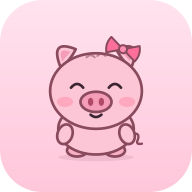
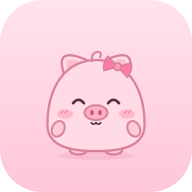
Redesign mascot as a soft rice-dumpling pig
- New original round body, lighter pink palette and pink outline
- All moods, 6 expressions and 8 accessories redrawn; app icons regenerated

Claude-Session: https://claude.ai/code/session_017u5cF35bcKVS5euekZndY5

Changed region(s): [[0.2188, 0.1875, 0.7812, 0.8438]]

diff --git a/www/js/pig.js b/www/js/pig.js
@@ -1,8 +1,10 @@
-// Original pink-pig mascot "Mochi" drawn as SVG: expressions, moods, accessories.
-const OUT = '#8A4A5E';
-const SKIN = '#FCC6D6';
-const SKIN2 = '#F7AFC4';
-const SNOUT = '#F59DB8';
+// Original mascot "Mochi" – a round rice-dumpling (糯米团子) pig drawn as SVG.
+// Expressions, moods and accessories; API: pigSVG({ mood, expr, acc, size, cls }).
+const OUT = '#D9829C';
+const FILL = '#FFDCE5';
+const FILL2 = '#FFC9D7';
+const SNOUT = '#FFB0C4';
+const EYE = '#5A3140';
 
 // Accessories & expressions unlock by total focus minutes
 export const ACCESSORIES = [
@@ -15,52 +17,52 @@ export const EXPRESSIONS = [
   { id: 'love', min: 180 }, { id: 'star', min: 360 }, { id: 'cool', min: 800 },
 ];
 
+const L = 74, R = 126, Y = 112;
+const line = (d, w = 4) => `<path d="${d}" fill="none" stroke="${EYE}" stroke-width="${w}" stroke-linecap="round"/>`;
+const roundEye = (x) => `<ellipse cx="${x}" cy="${Y}" rx="7" ry="8.5" fill="${EYE}"/><circle cx="${x + 2.5}" cy="${Y - 3.5}" r="2.8" fill="#fff"/><circle cx="${x - 2.5}" cy="${Y + 3}" r="1.3" fill="#fff"/>`;
+
 function eyes(expr) {
-  const L = 72, R = 128, Y = 88;
   switch (expr) {
-    case 'happy':
-      return `<path d="M${L - 9} ${Y + 3} Q${L} ${Y - 8} ${L + 9} ${Y + 3}" class="pig-line"/><path d="M${R - 9} ${Y + 3} Q${R} ${Y - 8} ${R + 9} ${Y + 3}" class="pig-line"/>`;
-    case 'sleep':
-      return `<path d="M${L - 9} ${Y} Q${L} ${Y + 7} ${L + 9} ${Y}" class="pig-line"/><path d="M${R - 9} ${Y} Q${R} ${Y + 7} ${R + 9} ${Y}" class="pig-line"/>`;
-    case 'wink':
-      return `<g class="pig-eye"><ellipse cx="${L}" cy="${Y}" rx="6.5" ry="8" fill="#3B2530"/><circle cx="${L + 2}" cy="${Y - 3}" r="2.4" fill="#fff"/></g><path d="M${R - 9} ${Y + 2} Q${R} ${Y - 7} ${R + 9} ${Y + 2}" class="pig-line"/>`;
+    case 'happy': return [L, R].map((x) => line(`M${x - 8} ${Y + 2} Q${x} ${Y - 8} ${x + 8} ${Y + 2}`)).join('');
+    case 'sleep': return [L, R].map((x) => line(`M${x - 8} ${Y} Q${x} ${Y + 6} ${x + 8} ${Y}`)).join('');
+    case 'wink': return `<g class="pig-eye">${roundEye(L)}</g>${line(`M${R - 8} ${Y + 2} Q${R} ${Y - 7} ${R + 8} ${Y + 2}`)}`;
     case 'love':
-      return [L, R].map((x) => `<path d="M${x} ${Y + 8} C${x - 14} ${Y - 2} ${x - 7} ${Y - 12} ${x} ${Y - 4} C${x + 7} ${Y - 12} ${x + 14} ${Y - 2} ${x} ${Y + 8}Z" fill="#FF5C8A" stroke="${OUT}" stroke-width="2"/>`).join('');
+      return [L, R].map((x) => `<path d="M${x} ${Y + 8} C${x - 13} ${Y - 1} ${x - 7} ${Y - 11} ${x} ${Y - 4} C${x + 7} ${Y - 11} ${x + 13} ${Y - 1} ${x} ${Y + 8}Z" fill="#FF6F98" stroke="${OUT}" stroke-width="1.8"/>`).join('');
     case 'star':
-      return [L, R].map((x) => `<path d="M${x} ${Y - 10} L${x + 3} ${Y - 3} L${x + 10} ${Y - 2} L${x + 5} ${Y + 3} L${x + 6} ${Y + 10} L${x} ${Y + 6} L${x - 6} ${Y + 10} L${x - 5} ${Y + 3} L${x - 10} ${Y - 2} L${x - 3} ${Y - 3}Z" fill="#FFD54F" stroke="${OUT}" stroke-width="2"/>`).join('');
+      return [L, R].map((x) => `<path d="M${x} ${Y - 10} L${x + 3} ${Y - 3} L${x + 10} ${Y - 2} L${x + 5} ${Y + 3} L${x + 6} ${Y + 10} L${x} ${Y + 6} L${x - 6} ${Y + 10} L${x - 5} ${Y + 3} L${x - 10} ${Y - 2} L${x - 3} ${Y - 3}Z" fill="#FFD54F" stroke="${OUT}" stroke-width="1.8"/>`).join('');
     case 'cool':
-      return `<path d="M52 80 H148 L144 86 Q140 102 122 100 Q108 98 104 86 H96 Q92 98 78 100 Q60 102 56 86Z" fill="#2B2B3A" stroke="${OUT}" stroke-width="2.5"/><path d="M64 84 L72 84" stroke="#fff" stroke-width="3" stroke-linecap="round" opacity=".7"/>`;
+      return `<path d="M54 104 H146 L142 110 Q138 124 122 122 Q109 120 105 110 H95 Q91 120 78 122 Q62 124 58 110Z" fill="#3A2E3A" stroke="${OUT}" stroke-width="2.5"/><path d="M64 108 L72 108" stroke="#fff" stroke-width="3" stroke-linecap="round" opacity=".7"/>`;
     case 'worried':
-      return `<g class="pig-eye"><ellipse cx="${L}" cy="${Y + 2}" rx="6" ry="7" fill="#3B2530"/><circle cx="${L + 2}" cy="${Y - 1}" r="2" fill="#fff"/><ellipse cx="${R}" cy="${Y + 2}" rx="6" ry="7" fill="#3B2530"/><circle cx="${R + 2}" cy="${Y - 1}" r="2" fill="#fff"/></g><path d="M${L - 10} ${Y - 10} L${L + 6} ${Y - 16}" class="pig-line"/><path d="M${R + 10} ${Y - 10} L${R - 6} ${Y - 16}" class="pig-line"/>`;
-    default: // smile – open round eyes
-      return `<g class="pig-eye"><ellipse cx="${L}" cy="${Y}" rx="6.5" ry="8" fill="#3B2530"/><circle cx="${L + 2}" cy="${Y - 3}" r="2.4" fill="#fff"/><ellipse cx="${R}" cy="${Y}" rx="6.5" ry="8" fill="#3B2530"/><circle cx="${R + 2}" cy="${Y - 3}" r="2.4" fill="#fff"/></g>`;
+      return `<g class="pig-eye">${roundEye(L)}${roundEye(R)}</g>${line(`M${L - 10} ${Y - 12} L${L + 6} ${Y - 17}`, 3)}${line(`M${R + 10} ${Y - 12} L${R - 6} ${Y - 17}`, 3)}`;
+    default: return `<g class="pig-eye">${roundEye(L)}${roundEye(R)}</g>`;
   }
 }
 
 function accessory(id) {
+  const s = `stroke="${OUT}" stroke-width="2.5" stroke-linejoin="round"`;
   switch (id) {
     case 'bow':
-      return `<g transform="translate(140 34) rotate(18)"><path d="M0 0 L-22 -12 Q-28 0 -22 12Z" fill="#FF6F9C" stroke="${OUT}" stroke-width="3" stroke-linejoin="round"/><path d="M0 0 L22 -12 Q28 0 22 12Z" fill="#FF6F9C" stroke="${OUT}" stroke-width="3" stroke-linejoin="round"/><circle r="6" fill="#FF8FB1" stroke="${OUT}" stroke-width="3"/></g>`;
+      return `<g transform="translate(132 60) rotate(16)"><path d="M0 0 L-18 -11 Q-23 0 -18 11Z" fill="#FF7BA5" ${s}/><path d="M0 0 L18 -11 Q23 0 18 11Z" fill="#FF7BA5" ${s}/><circle r="5.5" fill="#FF9CBC" ${s}/></g>`;
     case 'flower':
-      return `<g transform="translate(58 38)">${[0, 72, 144, 216, 288].map((a) => `<ellipse rx="7" ry="11" cy="-10" transform="rotate(${a})" fill="#FFF3B0" stroke="${OUT}" stroke-width="2.5"/>`).join('')}<circle r="6" fill="#FFB74D" stroke="${OUT}" stroke-width="2.5"/></g>`;
+      return `<g transform="translate(66 60)">${[0, 72, 144, 216, 288].map((a) => `<ellipse rx="6.5" ry="10" cy="-9" transform="rotate(${a})" fill="#FFF3B0" ${s}/>`).join('')}<circle r="5.5" fill="#FFB74D" ${s}/></g>`;
     case 'glasses':
-      return `<g fill="none" stroke="#6FA8DC" stroke-width="4"><circle cx="72" cy="88" r="16" fill="rgba(255,255,255,.25)"/><circle cx="128" cy="88" r="16" fill="rgba(255,255,255,.25)"/><path d="M88 88 Q100 82 112 88"/></g>`;
+      return `<g fill="rgba(255,255,255,.25)" stroke="#7FB3E0" stroke-width="3.5"><circle cx="${L}" cy="${Y}" r="15"/><circle cx="${R}" cy="${Y}" r="15"/><path d="M89 110 Q100 104 111 110" fill="none"/></g>`;
     case 'scarf':
-      return `<g><path d="M52 138 Q100 160 148 138 L150 152 Q100 172 50 152Z" fill="#FF8A80" stroke="${OUT}" stroke-width="3" stroke-linejoin="round"/><path d="M126 150 L134 182 L118 180 L114 154Z" fill="#FF8A80" stroke="${OUT}" stroke-width="3" stroke-linejoin="round"/><path d="M60 146 L70 150 M80 152 L90 154 M100 155 L110 154" stroke="#fff" stroke-width="3" stroke-linecap="round" opacity=".7"/></g>`;
+      return `<g><path d="M30 150 Q100 172 170 150 L171 163 Q100 187 29 163Z" fill="#FF9A8F" ${s}/><path d="M128 166 L136 192 L120 190 L116 168Z" fill="#FF9A8F" ${s}/><path d="M48 160 l8 3 M70 166 l8 2 M92 169 l8 0" stroke="#fff" stroke-width="2.5" stroke-linecap="round" opacity=".75"/></g>`;
     case 'headphones':
-      return `<g><path d="M34 92 Q34 22 100 22 Q166 22 166 92" fill="none" stroke="#7E57C2" stroke-width="9" stroke-linecap="round"/><rect x="22" y="80" width="22" height="34" rx="10" fill="#9575CD" stroke="${OUT}" stroke-width="3"/><rect x="156" y="80" width="22" height="34" rx="10" fill="#9575CD" stroke="${OUT}" stroke-width="3"/></g>`;
+      return `<g><path d="M32 112 Q30 34 100 34 Q170 34 168 112" fill="none" stroke="#9C7BD8" stroke-width="8" stroke-linecap="round"/><rect x="18" y="96" width="22" height="34" rx="10" fill="#B39DDB" ${s}/><rect x="160" y="96" width="22" height="34" rx="10" fill="#B39DDB" ${s}/></g>`;
     case 'partyhat':
-      return `<g transform="translate(100 40) rotate(-12)"><path d="M-20 4 L0 -48 L20 4Z" fill="#81D4FA" stroke="${OUT}" stroke-width="3" stroke-linejoin="round"/><path d="M-12 -14 L10 -10 M-6 -30 L6 -28" stroke="#FFEB3B" stroke-width="4" stroke-linecap="round"/><circle cy="-50" r="7" fill="#FFEB3B" stroke="${OUT}" stroke-width="3"/></g>`;
+      return `<g transform="translate(96 52) rotate(-10)"><path d="M-18 4 L0 -44 L18 4Z" fill="#9AD8F5" ${s}/><path d="M-11 -12 L9 -9 M-5 -27 L5 -25" stroke="#FFE066" stroke-width="3.5" stroke-linecap="round"/><circle cy="-46" r="6" fill="#FFE066" ${s}/></g>`;
     case 'crown':
-      return `<g transform="translate(100 34)"><path d="M-30 10 L-34 -22 L-16 -6 L0 -28 L16 -6 L34 -22 L30 10Z" fill="#FFD54F" stroke="${OUT}" stroke-width="3" stroke-linejoin="round"/><circle cx="0" cy="-2" r="4.5" fill="#FF6F9C"/><circle cx="-18" cy="2" r="3.5" fill="#64B5F6"/><circle cx="18" cy="2" r="3.5" fill="#81C784"/></g>`;
+      return `<g transform="translate(100 50)"><path d="M-26 8 L-30 -20 L-14 -6 L0 -26 L14 -6 L30 -20 L26 8Z" fill="#FFD966" ${s}/><circle cy="-2" r="4" fill="#FF7BA5"/><circle cx="-16" cy="2" r="3" fill="#7FB3E0"/><circle cx="16" cy="2" r="3" fill="#8FD19E"/></g>`;
     case 'gradcap':
-      return `<g transform="translate(100 34)"><path d="M-26 -2 L-26 10 Q0 22 26 10 L26 -2Z" fill="#37474F" stroke="${OUT}" stroke-width="3"/><path d="M-46 -6 L0 -26 L46 -6 L0 14Z" fill="#455A64" stroke="${OUT}" stroke-width="3" stroke-linejoin="round"/><path d="M0 -6 L34 2 L34 22" fill="none" stroke="#FFD54F" stroke-width="3"/><circle cx="34" cy="24" r="4" fill="#FFD54F"/></g>`;
+      return `<g transform="translate(100 50)"><path d="M-24 -2 L-24 9 Q0 20 24 9 L24 -2Z" fill="#4E5B66" ${s}/><path d="M-44 -6 L0 -24 L44 -6 L0 12Z" fill="#5D6B77" ${s}/><path d="M0 -6 L32 2 L32 20" fill="none" stroke="#FFD966" stroke-width="3"/><circle cx="32" cy="22" r="4" fill="#FFD966"/></g>`;
     default: return '';
   }
 }
 
 /**
- * Render pig SVG.
+ * Render the pig.
  * @param {object} o { mood: happy|focus|sleep|worried|cheer|proud, expr, acc, size, cls }
  */
 export function pigSVG(o = {}) {
@@ -73,49 +75,45 @@ export function pigSVG(o = {}) {
   const armsUp = mood === 'cheer' || mood === 'proud';
   const size = o.size || 120;
   const mouth = mood === 'worried'
-    ? `<ellipse cx="100" cy="134" rx="5" ry="4" fill="#B04A68"/>`
-    : mood === 'cheer' ? `<path d="M90 130 Q100 144 110 130Z" fill="#E0567E" stroke="${OUT}" stroke-width="2.5" stroke-linejoin="round"/>`
-      : `<path d="M92 131 Q100 138 108 131" class="pig-line" stroke-width="3"/>`;
+    ? `<ellipse cx="100" cy="146" rx="4" ry="3.5" fill="#B9557A"/>`
+    : mood === 'cheer' ? `<path d="M92 142 Q100 154 108 142Z" fill="#F0648F" stroke="${EYE}" stroke-width="2" stroke-linejoin="round"/>`
+      : `<path d="M93 143 q3.5 4 7 0 q3.5 4 7 0" fill="none" stroke="${EYE}" stroke-width="2.5" stroke-linecap="round"/>`;
   const arms = armsUp
-    ? `<g class="pig-arms-up"><ellipse cx="44" cy="128" rx="11" ry="17" transform="rotate(35 44 128)" fill="${SKIN}" stroke="${OUT}" stroke-width="4"/><ellipse cx="156" cy="128" rx="11" ry="17" transform="rotate(-35 156 128)" fill="${SKIN}" stroke="${OUT}" stroke-width="4"/></g>`
-    : `<ellipse cx="54" cy="160" rx="11" ry="15" transform="rotate(20 54 160)" fill="${SKIN}" stroke="${OUT}" stroke-width="4"/><ellipse cx="146" cy="160" rx="11" ry="15" transform="rotate(-20 146 160)" fill="${SKIN}" stroke="${OUT}" stroke-width="4"/>`;
+    ? `<g class="pig-arms-up"><ellipse cx="34" cy="116" rx="9" ry="13" transform="rotate(40 34 116)" fill="${FILL2}" stroke="${OUT}" stroke-width="3"/><ellipse cx="166" cy="116" rx="9" ry="13" transform="rotate(-40 166 116)" fill="${FILL2}" stroke="${OUT}" stroke-width="3"/></g>`
+    : `<ellipse cx="44" cy="152" rx="9" ry="12" transform="rotate(25 44 152)" fill="${FILL2}" stroke="${OUT}" stroke-width="3"/><ellipse cx="156" cy="152" rx="9" ry="12" transform="rotate(-25 156 152)" fill="${FILL2}" stroke="${OUT}" stroke-width="3"/>`;
   const book = mood === 'focus'
-    ? `<g transform="translate(100 166)"><path d="M-34 -16 L0 -10 L0 16 L-34 10Z" fill="#FFF8E1" stroke="${OUT}" stroke-width="3" stroke-linejoin="round"/><path d="M34 -16 L0 -10 L0 16 L34 10Z" fill="#FFF3C4" stroke="${OUT}" stroke-width="3" stroke-linejoin="round"/><path d="M-26 -6 L-8 -3 M-26 2 L-8 5 M8 -3 L26 -6 M8 5 L26 2" stroke="#C9A96E" stroke-width="2"/></g>` : '';
+    ? `<g transform="translate(100 168)"><path d="M-32 -14 L0 -8 L0 16 L-32 10Z" fill="#FFF8E1" stroke="${OUT}" stroke-width="2.5" stroke-linejoin="round"/><path d="M32 -14 L0 -8 L0 16 L32 10Z" fill="#FFF3C4" stroke="${OUT}" stroke-width="2.5" stroke-linejoin="round"/><path d="M-25 -5 L-8 -2 M-25 3 L-8 6 M8 -2 L25 -5 M8 6 L25 3" stroke="#D8B87A" stroke-width="2"/></g>` : '';
   const extras = {
-    sleep: `<g class="pig-zzz" fill="#9C7BC0" font-family="Arial Rounded MT Bold,Arial" font-weight="700"><text x="14" y="50" font-size="22">Z</text><text x="30" y="30" font-size="15">z</text></g>`,
-    worried: `<path d="M152 62 Q160 74 152 80 Q144 74 152 62Z" fill="#90CAF9" stroke="${OUT}" stroke-width="2"/>`,
-    cheer: `<g class="pig-sparkle" fill="#FFD54F" stroke="${OUT}" stroke-width="1.5"><path d="M24 50 l4 9 9 4 -9 4 -4 9 -4 -9 -9 -4 9 -4z"/><path d="M176 46 l3 7 7 3 -7 3 -3 7 -3 -7 -7 -3 7 -3z"/></g>`,
-    proud: `<g class="pig-sparkle" fill="#FF8FB1"><circle cx="30" cy="60" r="4"/><circle cx="172" cy="56" r="5"/></g>`,
+    sleep: `<g class="pig-zzz" fill="#B49AD8" font-family="Arial Rounded MT Bold,Arial" font-weight="700"><text x="14" y="58" font-size="22">Z</text><text x="30" y="38" font-size="15">z</text></g>`,
+    worried: `<path d="M156 76 Q164 88 156 94 Q148 88 156 76Z" fill="#A9D4F5" stroke="${OUT}" stroke-width="2"/>`,
+    cheer: `<g class="pig-sparkle" fill="#FFD966" stroke="${OUT}" stroke-width="1.5"><path d="M20 62 l4 9 9 4 -9 4 -4 9 -4 -9 -9 -4 9 -4z"/><path d="M178 58 l3 7 7 3 -7 3 -3 7 -3 -7 -7 -3 7 -3z"/></g>`,
+    proud: `<g class="pig-sparkle" fill="#FF9CBC"><circle cx="24" cy="70" r="4"/><circle cx="176" cy="66" r="5"/></g>`,
   }[mood] || '';
-  const accBehind = acc === 'headphones' ? '' : '';
-  const accFront = accessory(acc);
-  const scarfFirst = acc === 'scarf';
+  const behind = acc === 'headphones' ? accessory(acc) : '';
+  const front = acc === 'headphones' ? '' : accessory(acc);
   return `<svg class="pig ${o.cls || ''} pig-mood-${mood}" viewBox="0 0 200 200" width="${size}" height="${size}" role="img" aria-label="Mochi">
-  <style>.pig-line{fill:none;stroke:#3B2530;stroke-width:4;stroke-linecap:round}</style>
-  ${accBehind}
-  <ellipse cx="100" cy="194" rx="56" ry="6" fill="rgba(138,74,94,.12)"/>
+  <ellipse cx="100" cy="192" rx="58" ry="6" fill="rgba(217,130,156,.18)"/>
   <g class="pig-body">
-    <ellipse cx="72" cy="184" rx="15" ry="9" fill="${SKIN2}" stroke="${OUT}" stroke-width="4"/>
-    <ellipse cx="128" cy="184" rx="15" ry="9" fill="${SKIN2}" stroke="${OUT}" stroke-width="4"/>
-    <ellipse cx="100" cy="152" rx="56" ry="38" fill="${SKIN}" stroke="${OUT}" stroke-width="4"/>
-    <path d="M152 160 q14 -4 10 8 q-4 8 6 6" fill="none" stroke="${OUT}" stroke-width="3.5" stroke-linecap="round"/>
+    <ellipse cx="74" cy="183" rx="13" ry="7" fill="${FILL2}" stroke="${OUT}" stroke-width="3.5"/>
+    <ellipse cx="126" cy="183" rx="13" ry="7" fill="${FILL2}" stroke="${OUT}" stroke-width="3.5"/>
   </g>
-  ${scarfFirst ? '' : arms}
   <g class="pig-head">
-    <g class="pig-ear-l"><path d="M48 62 Q30 18 70 34 Q62 50 48 62Z" fill="${SKIN}" stroke="${OUT}" stroke-width="4" stroke-linejoin="round"/><path d="M50 52 Q42 30 62 38Z" fill="${SNOUT}"/></g>
-    <g class="pig-ear-r"><path d="M152 62 Q170 18 130 34 Q138 50 152 62Z" fill="${SKIN}" stroke="${OUT}" stroke-width="4" stroke-linejoin="round"/><path d="M150 52 Q158 30 138 38Z" fill="${SNOUT}"/></g>
-    <ellipse cx="100" cy="96" rx="68" ry="56" fill="${SKIN}" stroke="${OUT}" stroke-width="4"/>
-    <path d="M86 46 Q92 40 98 46 M102 44 Q108 38 114 44" fill="none" stroke="${OUT}" stroke-width="3" stroke-linecap="round" opacity=".55"/>
-    <ellipse cx="54" cy="112" rx="12" ry="7.5" fill="#FF8FAB" opacity=".55"/>
-    <ellipse cx="146" cy="112" rx="12" ry="7.5" fill="#FF8FAB" opacity=".55"/>
+    <g class="pig-ear-l"><path d="M54 74 Q36 28 86 50 Q70 66 54 74Z" fill="${FILL}" stroke="${OUT}" stroke-width="3.5" stroke-linejoin="round"/><path d="M58 64 Q50 42 74 52Z" fill="${SNOUT}" opacity=".7"/></g>
+    <g class="pig-ear-r"><path d="M146 74 Q164 28 114 50 Q130 66 146 74Z" fill="${FILL}" stroke="${OUT}" stroke-width="3.5" stroke-linejoin="round"/><path d="M142 64 Q150 42 126 52Z" fill="${SNOUT}" opacity=".7"/></g>
+    ${behind}
+    <path d="M28 146 C28 86 58 50 100 50 C142 50 172 86 172 146 C172 176 142 185 100 185 C58 185 28 176 28 146Z" fill="${FILL}" stroke="${OUT}" stroke-width="3.5"/>
+    <path d="M94 52 Q92 40 102 38 Q110 38 106 46" fill="none" stroke="${OUT}" stroke-width="3" stroke-linecap="round"/>
+    <ellipse cx="54" cy="130" rx="12" ry="7" fill="#FF9DB8" opacity=".55"/><ellipse cx="146" cy="130" rx="12" ry="7" fill="#FF9DB8" opacity=".55"/>
+    <path d="M48 129 l3 -4 M54 129 l3 -4 M142 129 l3 -4 M148 129 l3 -4" stroke="#F07A9C" stroke-width="1.6" stroke-linecap="round"/>
     <g class="pig-eyes">${eyes(expr)}</g>
-    <ellipse cx="100" cy="112" rx="23" ry="15" fill="${SNOUT}" stroke="${OUT}" stroke-width="4"/>
-    <ellipse cx="92" cy="112" rx="4" ry="6" fill="#B04A68"/><ellipse cx="108" cy="112" rx="4" ry="6" fill="#B04A68"/>
+    <ellipse cx="100" cy="128" rx="17" ry="11" fill="${SNOUT}" stroke="${OUT}" stroke-width="3"/>
+    <ellipse cx="94" cy="128" rx="2.6" ry="4" fill="#C25A7A"/><ellipse cx="106" cy="128" rx="2.6" ry="4" fill="#C25A7A"/>
     ${mouth}
   </g>
-  ${scarfFirst ? accFront + arms : ''}
+  ${acc === 'scarf' ? front : ''}
+  ${arms}
   ${book}
-  ${scarfFirst ? '' : accFront}
+  ${acc === 'scarf' ? '' : front}
   ${extras}
 </svg>`;
 }

diff --git a/www/css/app.css b/www/css/app.css
@@ -195,11 +195,11 @@ textarea.input { min-height: 90px; resize: vertical; }
 
 /* ---------- Pig & bubbles ---------- */
 .pig { overflow: visible; display: block; }
-.pig .pig-head { transform-origin: 100px 120px; }
+.pig .pig-head { transform-origin: 100px 150px; }
 .pig-anim .pig-head { animation: bob 3s ease-in-out infinite; }
-.pig-anim .pig-ear-l { transform-origin: 56px 50px; animation: earL 4s ease-in-out infinite; }
-.pig-anim .pig-ear-r { transform-origin: 144px 50px; animation: earR 4s ease-in-out infinite .3s; }
-.pig-anim .pig-eye { transform-origin: 100px 88px; animation: blink 5s infinite; }
+.pig-anim .pig-ear-l { transform-origin: 70px 64px; animation: earL 4s ease-in-out infinite; }
+.pig-anim .pig-ear-r { transform-origin: 130px 64px; animation: earR 4s ease-in-out infinite .3s; }
+.pig-anim .pig-eye { transform-origin: 100px 112px; animation: blink 5s infinite; }
 .pig-anim.pig-mood-focus .pig-head { animation: read 2.4s ease-in-out infinite; }
 .pig-anim.pig-mood-sleep .pig-head { animation: breathe 3.5s ease-in-out infinite; }
 .pig-anim .pig-zzz { animation: zzz 2.5s ease-in-out infinite; }
